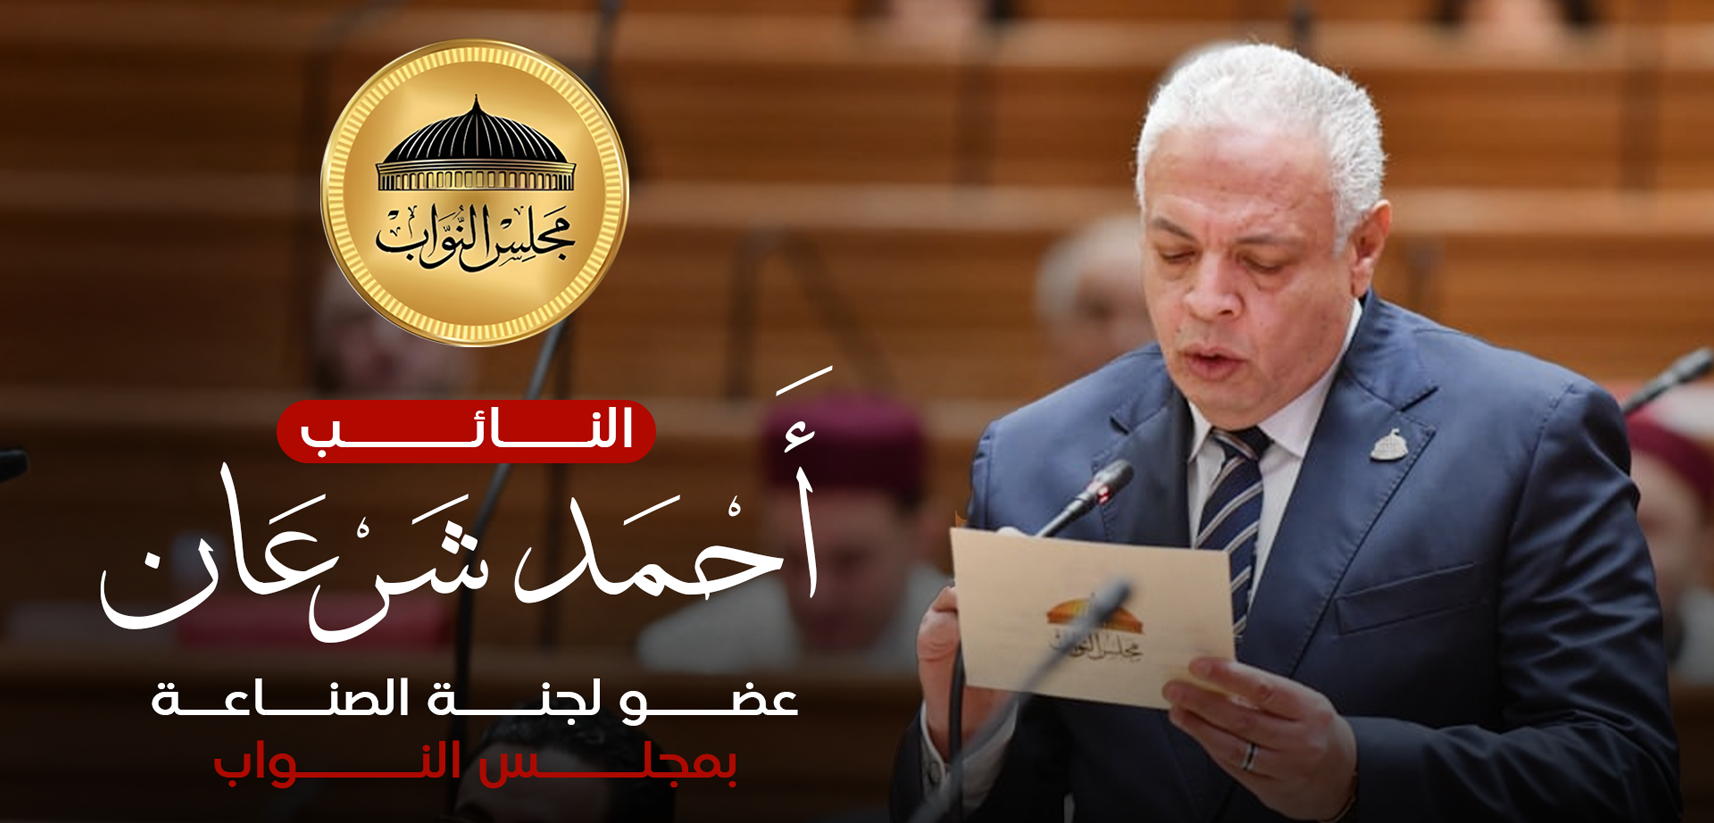
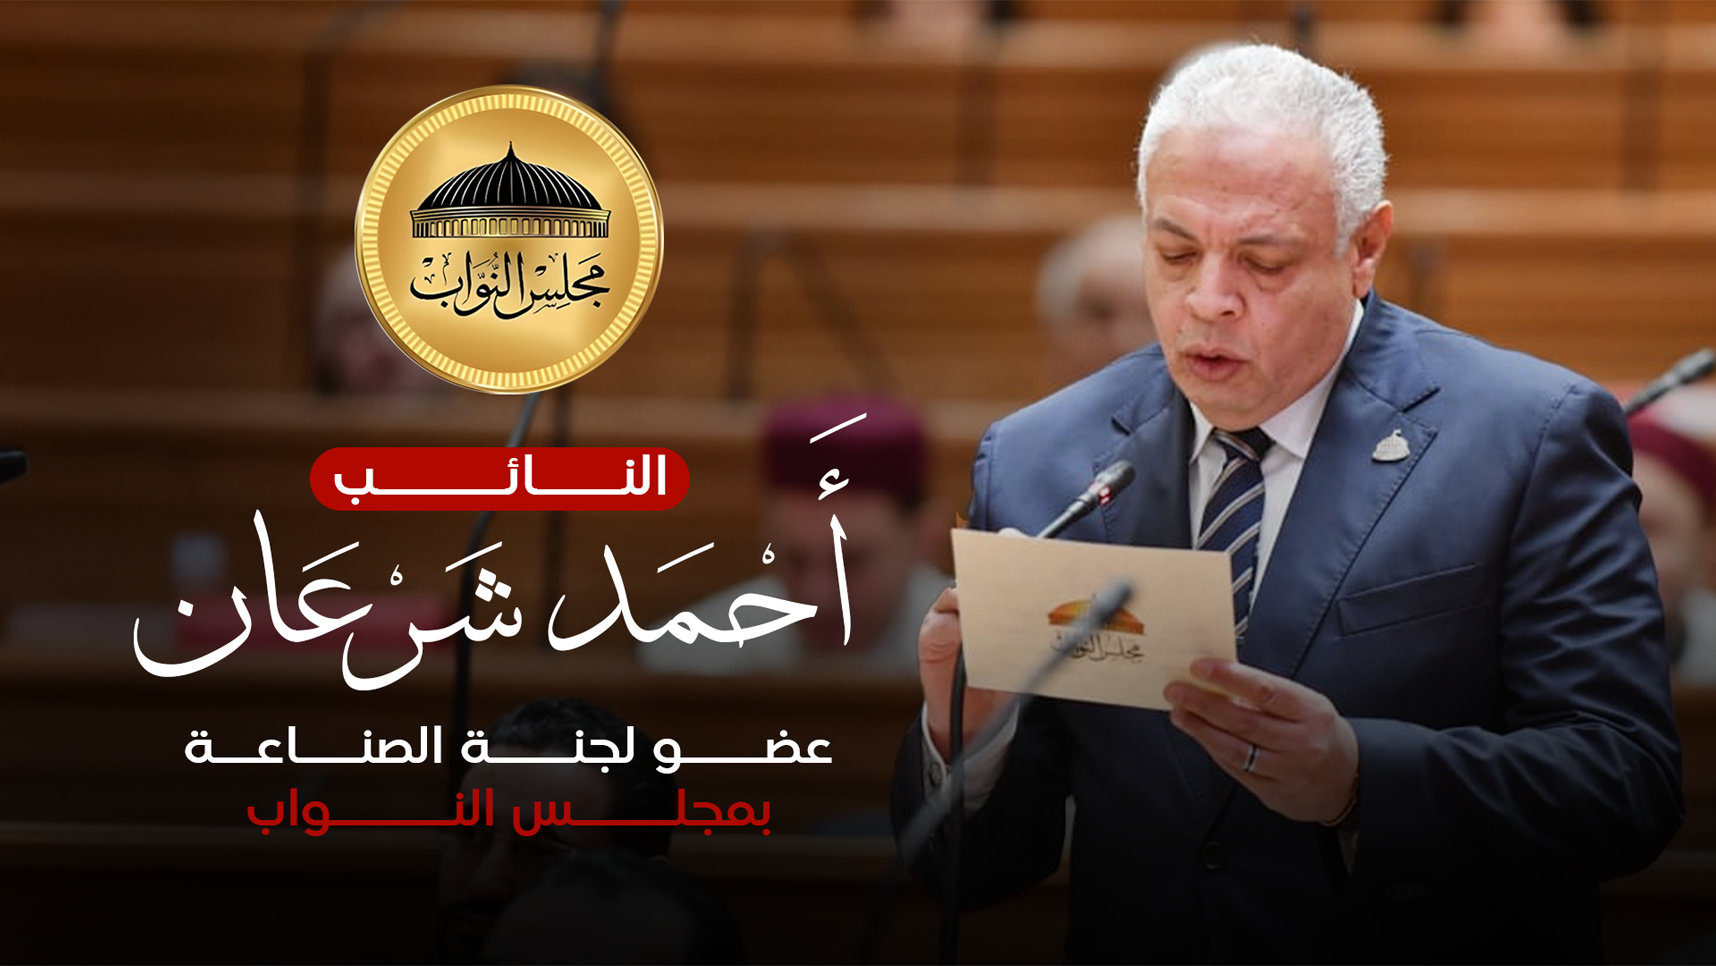
commit two

diff --git a/index.html b/index.html
@@ -4,7 +4,7 @@
 <head>
   <meta charset="utf-8">
   <meta content="width=device-width, initial-scale=1.0" name="viewport">
-  <title>المهندس احمد شرعان</title>
+  <title>النائب احمد شرعان</title>
   <meta name="description" content="">
   <meta name="keywords" content="">
 
@@ -64,9 +64,9 @@
     <!-- Hero Section -->
     <section id="hero" class="hero section">
 <picture>
-  <source srcset="images/newcover2.png" media="(max-width: 768px)">
-  <img src="images/newcover.png"
-       alt="المهندس احمد شرعان"
+  <source srcset="images/newcover2.png" media="(max-width: 900px)">
+  <img  src="images/newcover.png"
+       alt="النائب احمد شرعان"
        class="hero-img"
        data-aos="fade-in">
 </picture>
@@ -76,7 +76,7 @@
 
 
       <div class="container d-flex flex-column align-items-center">
-        <!-- <h2 data-aos="fade-up" data-aos-delay="100">المهندس احمد شرعان</h2> -->
+        <!-- <h2 data-aos="fade-up" data-aos-delay="100">النائب احمد شرعان</h2> -->
         <!-- <p data-aos="fade-up" data-aos-delay="200">الموقع الرسمي للمهندس احمد شرعان</p> -->
         <div class="d-flex mt-4" data-aos="fade-up" data-aos-delay="300">
           <!-- <a href="#about" class="btn-get-started">ابدأ</a> -->
@@ -96,8 +96,8 @@
         </div>
           <div class="row gy-4">
               <div class="col-lg-6" data-aos="fade-up" data-aos-delay="100">
-                  <h3>المهندس: <br>أحمد عطيه إسماعيل شرعان</h3>
-                  <img src="images/About.webp" class="img-fluid rounded-4  " alt="المهندس أحمد شرعان">
+                  <h3>النائب: <br>أحمد عطيه إسماعيل شرعان</h3>
+                  <img src="images/profile1.png" class="img-fluid rounded-4  " alt="النائب أحمد شرعان">
                   
               </div>
               <div class="col-lg-6" data-aos="fade-up" data-aos-delay="250">
@@ -111,7 +111,7 @@
                           <li><i class="bi bi-check-circle-fill"></i> <span><span class="brown fw-bolder">تاريخ الميلاد</span>: 1970/10/2</span></li>
                           <li><i class="bi bi-check-circle-fill "></i> <span><span class="brown fw-bolder">موبيل</span>: 01000001129</span></li>
                           <p class="fst-italic">
-                            <span class="brown">العنوان</span>: ميت غمر – شارع جسر النيل – برج المهندس أحمد شرعان
+                            <span class="brown">العنوان</span>: ميت غمر – شارع جسر النيل – برج النائب أحمد شرعان
                           </p>
                       </ul>
                       <p>مجموعة البركة جروب تُعد المورد الأول لمصانع وورش تشكيل وتصنيع الألومنيوم في ميت غمر ومحيطها، حيث تخدم حوالي 2500 منشأة يعمل بها نحو 80,000 عامل.</p>
@@ -300,7 +300,7 @@
 
       <div class="container section-title" data-aos="fade-up">
         <h2>الزيارات</h2>
-        <p>استعراض لبعض زيارات المهندس احمد شرعان</p>
+        <p>استعراض لبعض زيارات النائب احمد شرعان</p>
       </div>
 
       <div class="container">
@@ -442,7 +442,7 @@
       <!-- Section Title -->
       <div class="container section-title" data-aos="fade-up">
         <h2>التواصل</h2>
-        <p>يمكنك التواصل مع المهندس احمد شرعان</p>
+        <p>يمكنك التواصل مع النائب احمد شرعان</p>
       </div><!-- End Section Title -->
 
       <div class="container" data-aos="fade-up" data-aos-delay="100">
@@ -465,7 +465,7 @@
                 <div class="info-item d-flex flex-column justify-content-center align-items-center" data-aos="fade-up" data-aos-delay="200">
                   <i class="bi bi-geo-alt"></i>
                   <h3>العنوان</h3>
-                  <p>ميت غمر–شارع جسرالنيل–برج المهندس أحمد شرعان</p>
+                  <p>ميت غمر–شارع جسرالنيل<br>–برج النائب أحمد شرعان</p>
                 </div>
               </div><!-- End Info Item -->
 
@@ -641,11 +641,15 @@
       <div class="row gy-4 justify-content-center text-center">
         <div class="col-lg-4 col-md-6 footer-about ">
           <a href="index.html" class="logo d-flex justify-content-center">
-            <span class="sitename ">المهندس احمد شرعان</span>
+            <span class="sitename ">النائب احمد شرعان</span>
+          
+          </a>
+          <a href="index.html" class="logo d-flex justify-content-center">
+            <span class="sitename ">عضو لجنة الصناعه بمجلس النواب</span>
           </a>
           <div class="footer-contact ">
             
-            <p><i class="bi bi-geo-alt-fill"></i>ميت غمر–شارع جسرالنيل–برج المهندس أحمد شرعان</p>
+            <p><i class="bi bi-geo-alt-fill"></i>ميت غمر–شارع جسرالنيل–برج النائب أحمد شرعان</p>
             <p class="foot"><span>للمزيد من التفاصيل يمكنكم التواصل<br> معنا عبر احدى الطرق الاتيه</span></p>
             <!-- <p><i class="bi bi-envelope-fill"></i> <span>eng.ahmedsharaan@gmail.com</span></p> -->
           </div>

diff --git a/assets/css/main.css b/assets/css/main.css
@@ -1901,6 +1901,23 @@ section,
 /* افتراضي: لاب / كمبيوتر */
 
 
+.hero {
+  width: 100%;
+  overflow-x: hidden;
+}
+
+.hero-img-wrapper {
+  width: 100%;
+}
+
+.hero-img {
+  width: 100%;
+  max-width: 100%;
+  height: auto;
+  display: block;
+}
+
+
 
 
 
